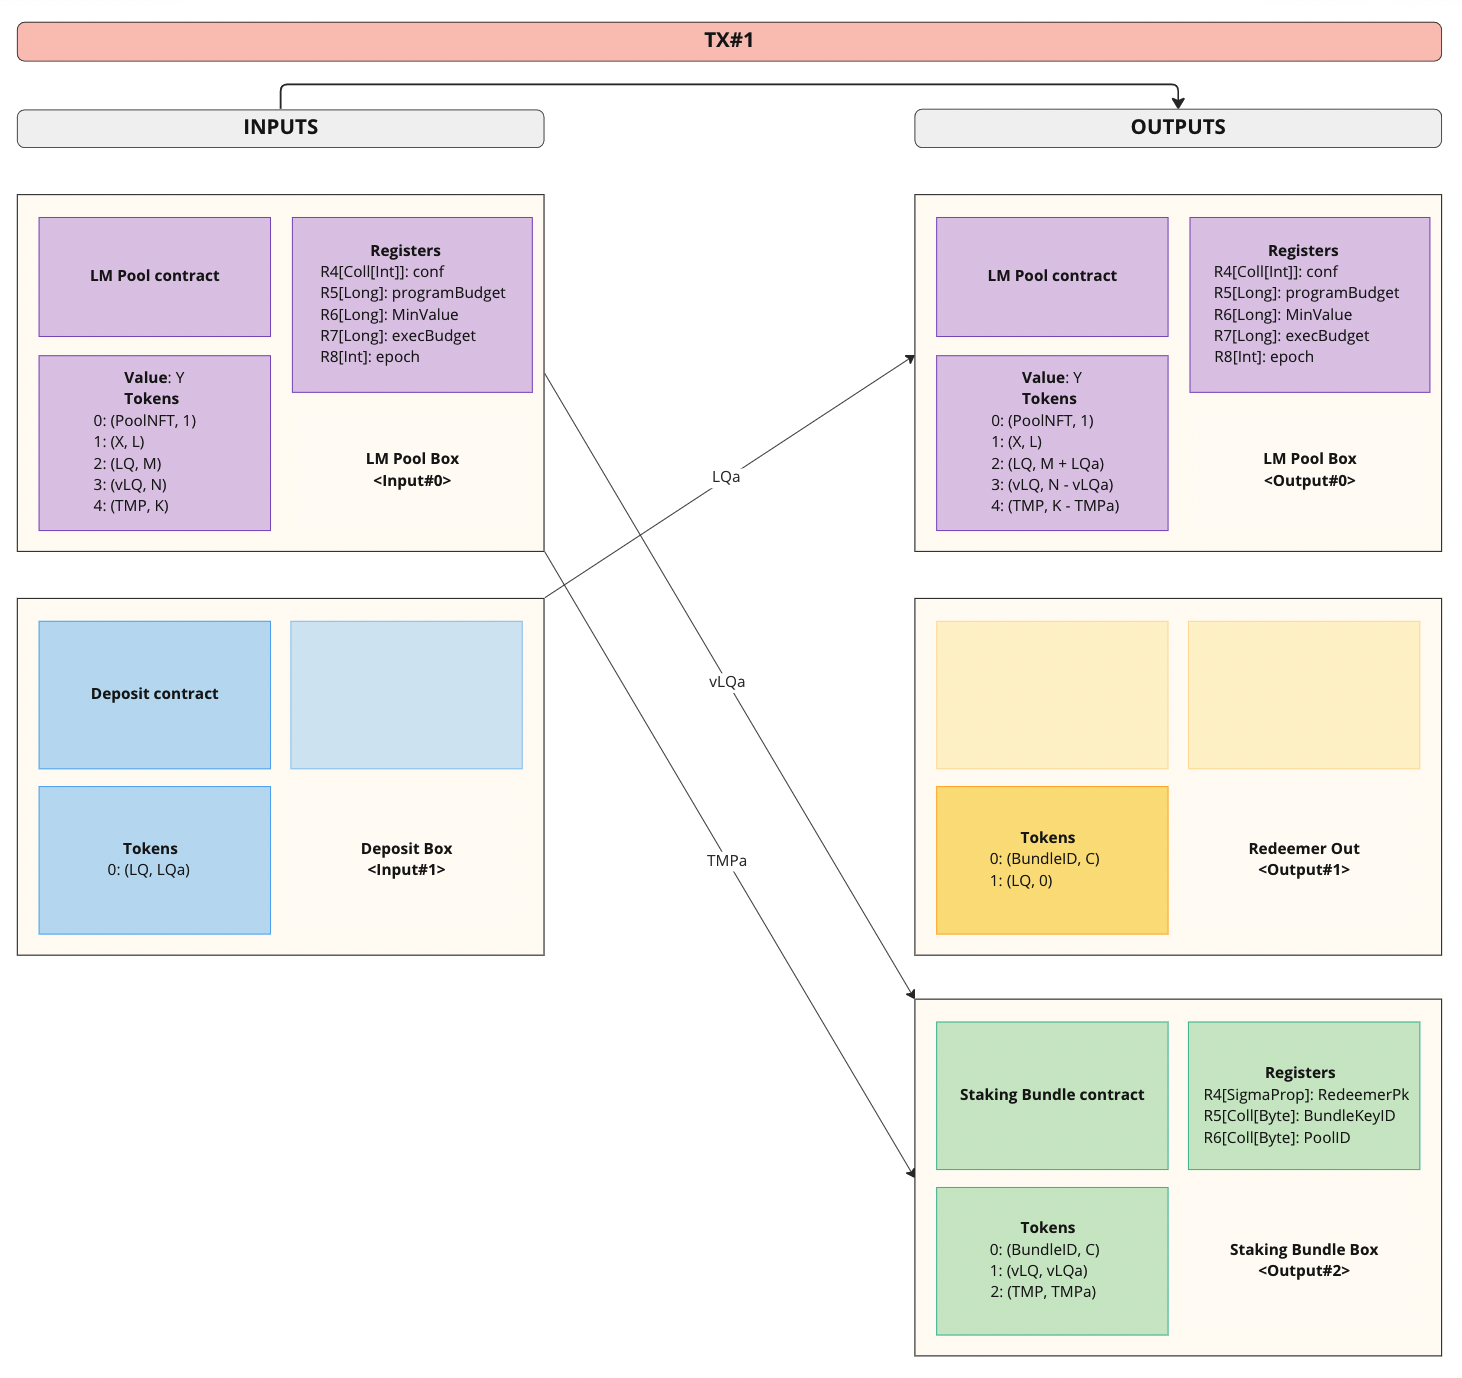
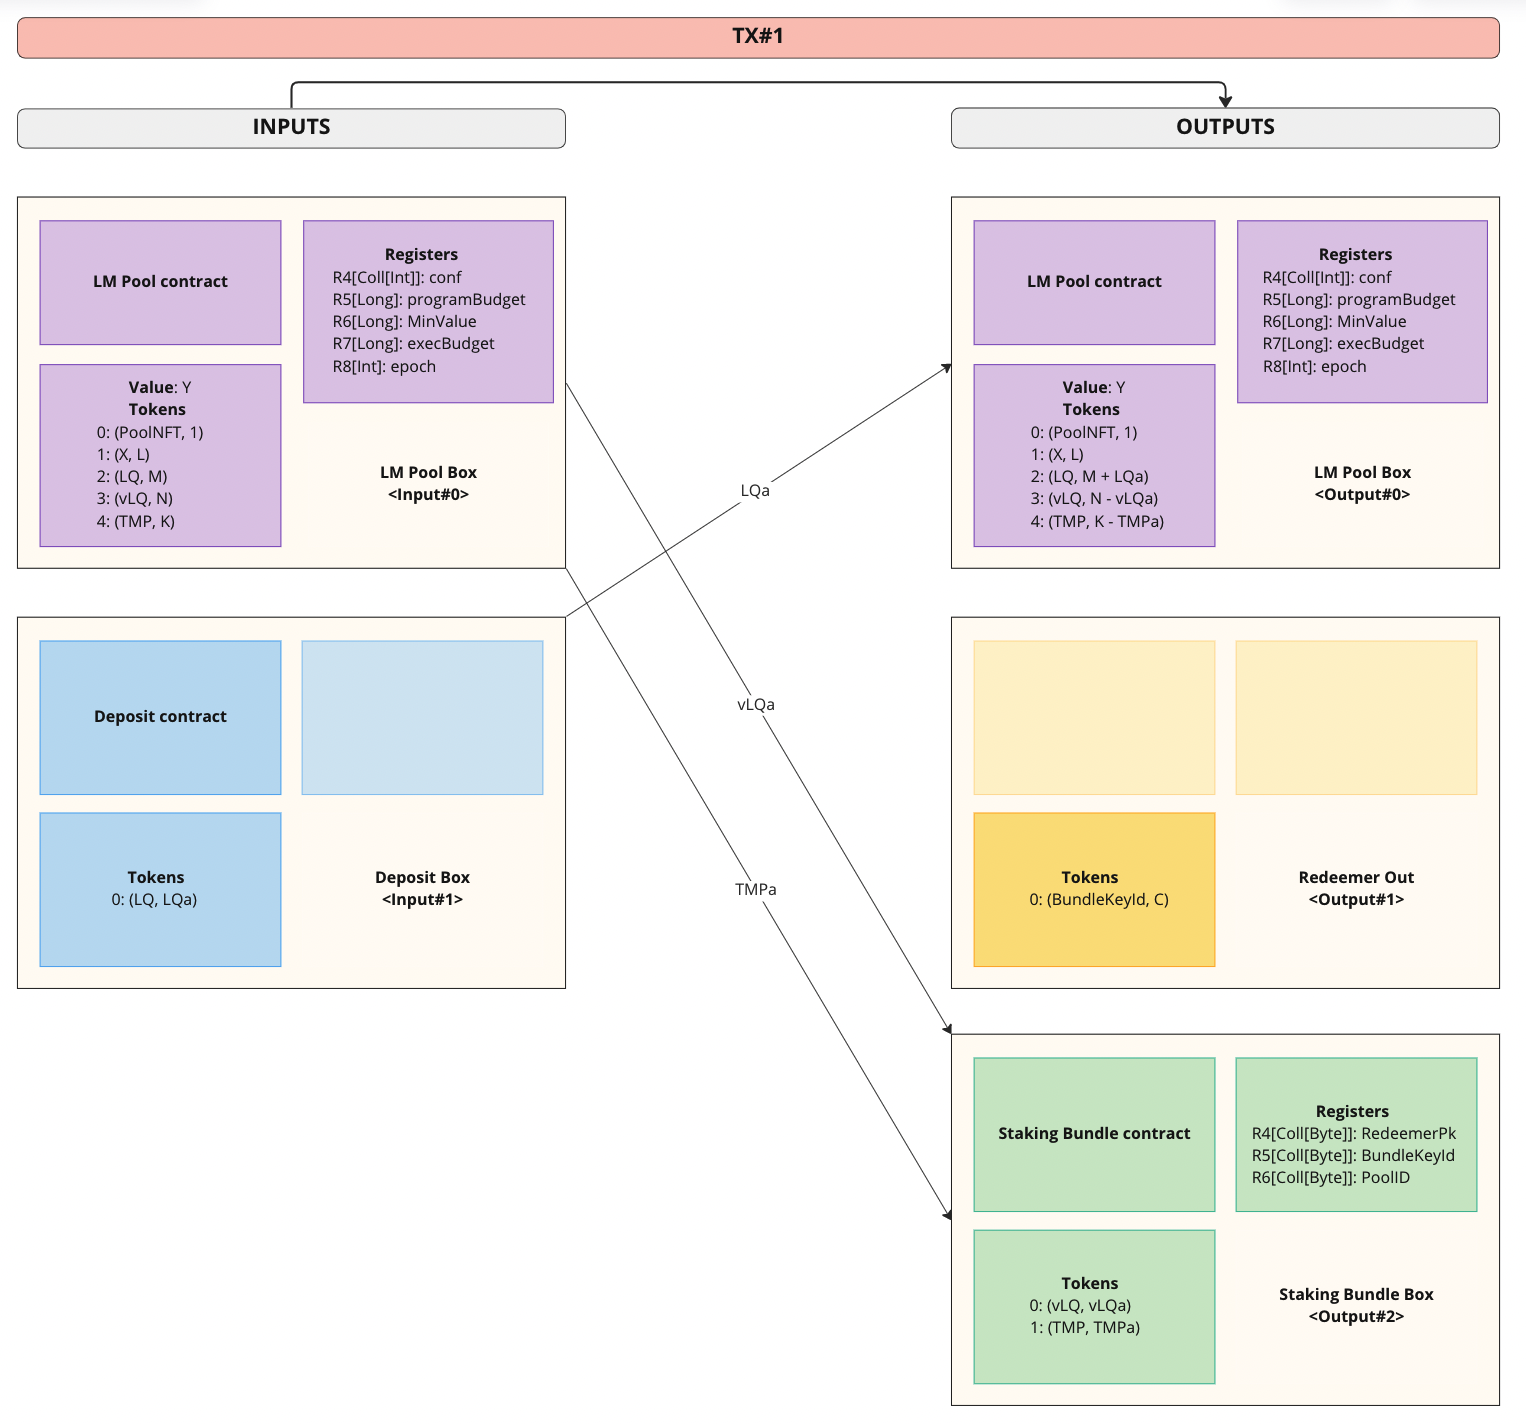
Bundle identification logic simplified and minor fixes.

diff --git a/protocols/LqMiningSimple.md b/protocols/LqMiningSimple.md
@@ -36,7 +36,6 @@ tokens and controls Compounding and Redeem operations (see "User scenarios" belo
 ### Tokens
 | Name | Description                                              | Emission |
 |------|----------------------------------------------------------|----------|
-| Key  | Bundle key                                               | 2^63     |
 | vLQ  | Virtual LQ token. Represents certain amount of liquidity |          |
 | TMP  | Temporal token                                           |          |
 
@@ -68,7 +67,8 @@ _Notes_:
 #### Deposit
 Alice wants to participate in LM program X. To do that, she sends `LQa` ADA/Xt LQ tokens to LM script
 address and receives bundled (see "Staking bundle" section above) `vLQa` vLQ tokens + `TMPa` temporal tokens in return,
-where `vLQa` - amount of LQ tokens deposited, `LQa = vLQa`, `TMPa = (EpochNum - (Height - ProgramStart + 1)) * vLQa`
+where `vLQa` - amount of LQ tokens deposited, `LQa = vLQa`, `TMPa = (EpochNum - (Height - ProgramStart + 1)) * vLQa`.
+She also gets a token `(BundleKeyId, C)`, which will be needed for "Staking bundle" redemption.
 
 ![LMDeposit0](./../img/LMDeposit0.png)
 ![LMDeposit1](./../img/LMDeposit1.png)
@@ -88,7 +88,8 @@ Each staker automatically receives a reward of `EpochReward * StakerLQ / LockedL
 Once Alice decided to unstake her liquidity she returns her staking bundle to LM Pool and receives proportional amount of LQ tokens
 to the amount of vLQ returned. Redemption is only allowed when all epochs Alice is eligible for are compounded.
 
-![LMRedeem](./../img/LMRedeem.png)
+![LMRedeem](./../img/LMRedeem0.png)
+![LMRedeem](./../img/LMRedeem1.png)
 
 _Notes_:
 * User can redeem his LQ tokens before and after program end
